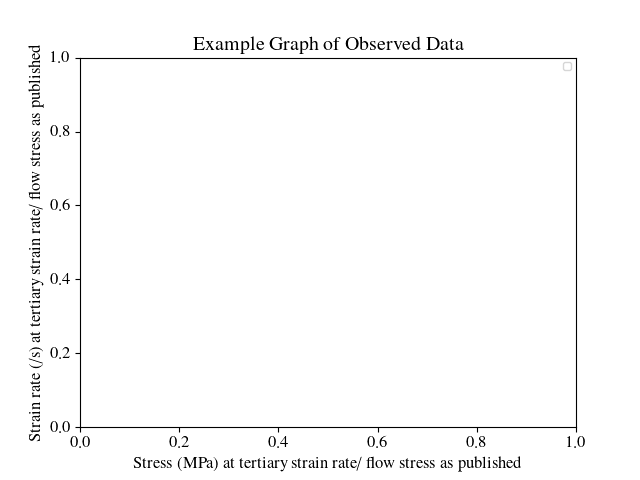
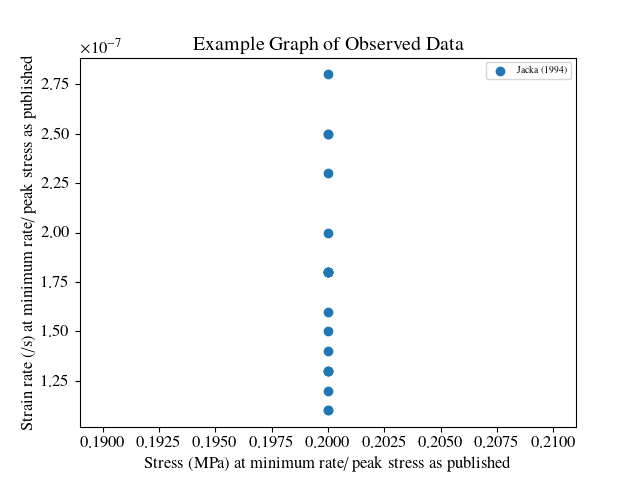
charts made fwith observations plotted on

diff --git a/L20/rh-comp.py b/L20/rh-comp.py
@@ -163,7 +163,7 @@ def n_hist(fig, ax, ns, Etype, which_ns = 'temp'):
     if which_ns == 'avg_st_rate':
         CMAP = CMAP_STRAIN_RATE
         norm = colors.LogNorm(min_ns, max_ns)
-        c_label = "log(Strain Rate x E)"
+        c_label = AXIS_SCALE + "(Strain Rate x E)"
 
 
     h, bins, patches = ax.hist(datas, histtype='bar', rwidth=0.95, stacked = True)
@@ -189,10 +189,10 @@ def generate_plot(ax, Eij, ex, t, slopes, use_Eij = True, cutoff = True, balance
 
     y_ = df.strain / t # strain rate 
     if use_Eij:
-        ax.set_ylabel('log(Strain Rate * E)')
+        ax.set_ylabel(AXIS_SCALE + '(Strain Rate * E)')
         x_ = reverse_glens(df.strain, ex.temp, t, E=df[Eij])
     else:
-        ax.set_ylabel('log(Strain Rate)')
+        ax.set_ylabel(AXIS_SCALE + '(Strain Rate)')
         x_ = reverse_glens(df.strain, ex.temp, t)
 
     temps = [ex.temp] * len(df.strain)
@@ -210,12 +210,12 @@ def generate_plot(ax, Eij, ex, t, slopes, use_Eij = True, cutoff = True, balance
     ax.set_xlabel('Target Change')
 
 
-    ax.set_xlabel("log(Tau)")
+    ax.set_xlabel(AXIS_SCALE + "(Tau)")
 
     ax.grid()
     #ax.legend(fontsize=7)
-    ax.set_xscale('log')
-    ax.set_yscale('log')
+    ax.set_xscale(AXIS_SCALE)
+    ax.set_yscale(AXIS_SCALE)
     if balanced_average == True:
         slopes[ax] = pd.concat([slopes[ax], get_balanced_average(np.log(x_[1:]), np.log(y_[1:]), temps)], ignore_index=True)
         return data
@@ -250,10 +250,10 @@ def generate_charts():
         scope = []
 
 
-def generate_charts_w_ref():
+def generate_charts_w_ref(use_not_tertiary = False):
     scope = []
 
-    EXP_TYPE = UC
+    EXP_TYPE = EXP
 
     for x in EXP_TYPE:
         for tem in TEMPS:
@@ -266,11 +266,16 @@ def generate_charts_w_ref():
             print(f"GAMMA: {e1.Gamma}, LAMD: 0.15, TEMP: {e1.temp}, EXP: {e1.exptype}")
             scope.append(e1)
 
+        if use_not_tertiary:
+            OBSERVATIONS_READER = ExperimentReader("observed_data.csv",
+                                                    y_name = "Strain rate (/s) at minimum rate/ peak stress as published",
+                                                    x_name = "Stress (MPa) at minimum rate/ peak stress as published")
+        else:
+            OBSERVATIONS_READER = ExperimentReader("observed_data.csv")
 
-        OBSERVATIONS_READER = ExperimentReader("observed_data.csv")
         OBSERVATIONS_READER.found_experiments = OBSERVATIONS_READER.get_experiments(x)
         OBSERVATIONS_READER.demonstrative_chart(fname=x + "_observations")
         plot_all_enhancement(scope, strain_over_time, balanced_average="individual", cutoff=False, fname=x, observations = OBSERVATIONS_READER)
         scope = []
 
-generate_charts_w_ref()
+generate_charts_w_ref(True)

diff --git a/L20/experiment_generation.py b/L20/experiment_generation.py
@@ -656,11 +656,7 @@ class ExperimentReader(csv.DictReader):
 
 
         self.found_experiments = self.found_experiments.reset_index(drop=True)
-        print(len(found_experiments[found_experiments["Source"] == "Qi & Goldsby (2021)"]))
 
-        
-
-        print(self.found_experiments)
 
 
     def keep_where(self, column, is_value, data = None):
@@ -716,8 +712,8 @@ class ExperimentReader(csv.DictReader):
             x *= YEAR # convert to per year from per second
         if ("/s" in self.y_name):
             y *= YEAR # convert to per year from per second
-        x = np.log(x)
-        y = np.log(y)
+        #x = np.log(x)
+        #y = np.log(y)
 
         sources = self.found_experiments["Source"].unique()
         plots = []
@@ -725,9 +721,6 @@ class ExperimentReader(csv.DictReader):
             x_ = x[self.found_experiments["Source"] == srcs]
             y_ = y[self.found_experiments["Source"] == srcs]
             temp_ = temp[self.found_experiments["Source"] == srcs]
-
-            if "Jacka" in srcs:
-                print(srcs, MARKERS[i], x_)
 
             plots.append(fig.scatter(x_, y_, label=srcs.replace("&", "\&"), marker=MARKERS[i], s=15,
                                      norm=colors.Normalize(MIN_TEMP, MAX_TEMP), cmap = CMAP_TEMP, c=temp_))
@@ -742,7 +735,6 @@ class ExperimentReader(csv.DictReader):
                   mpl.colormaps['tab20c'].colors]
         colors_i = 0
         used_colors = 0
-        print(colors[1][0])
 
         x = self.found_experiments[self.x_name].str.lower().astype(float)
         y = self.found_experiments[self.y_name].str.lower().astype(float)

diff --git a/L20/utils.py b/L20/utils.py
@@ -7,7 +7,10 @@ import matplotlib.colors as colors
 MAX_TEMP = 0
 MIN_TEMP = -30
 
-YEAR = 365.25 * 24 * 60 * 60 * 10 #seconds in 10 years
+
+AXIS_SCALE = "log"
+
+YEAR = 365.25 * 24 * 60 * 60  #seconds in 1 years
 
 CRITICAL_TEMP  = 263.15
 IDEAL_GAS = 8.3144621e-3
@@ -26,7 +29,7 @@ CMAP_TEMP = mp.cm.plasma
 CMAP_STRAIN_RATE = mp.cm.copper
 
 
-MARKERS = ["s", "P", "*", "d", "X","p", 
+MARKERS = ["X", "*", "s", "P", "d","p", 
            ">", "<", "^", "v",
            ]
 
